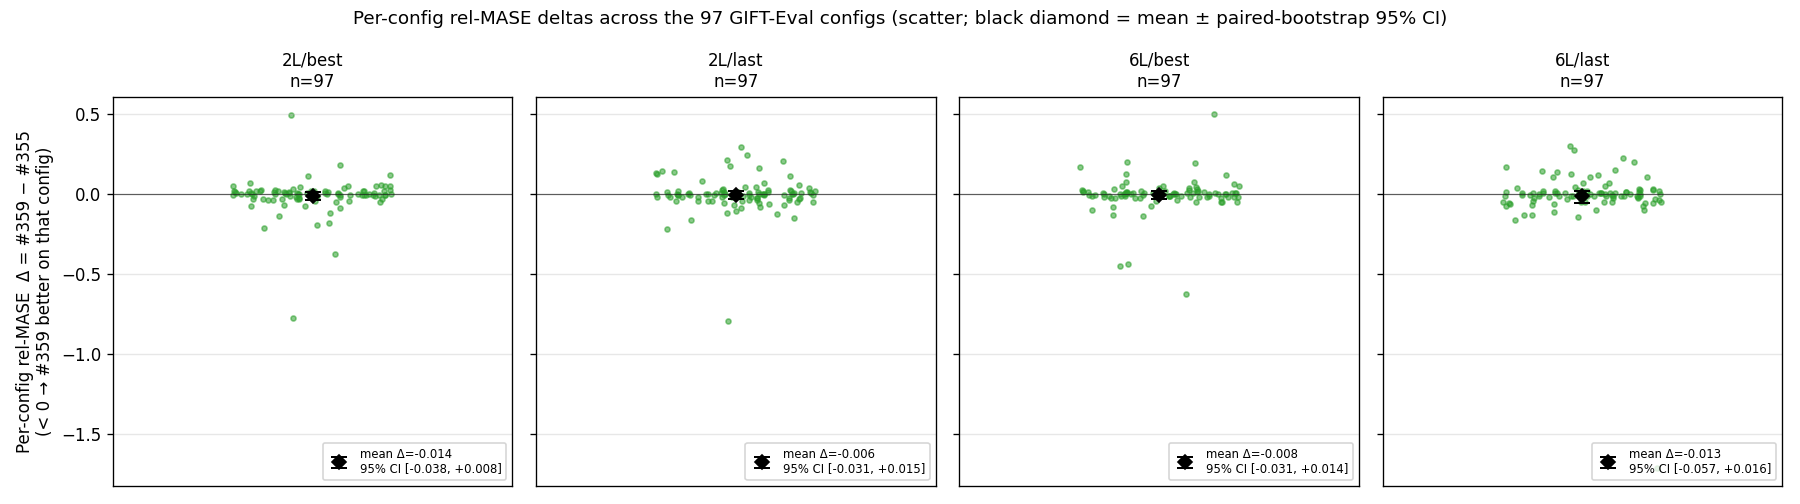
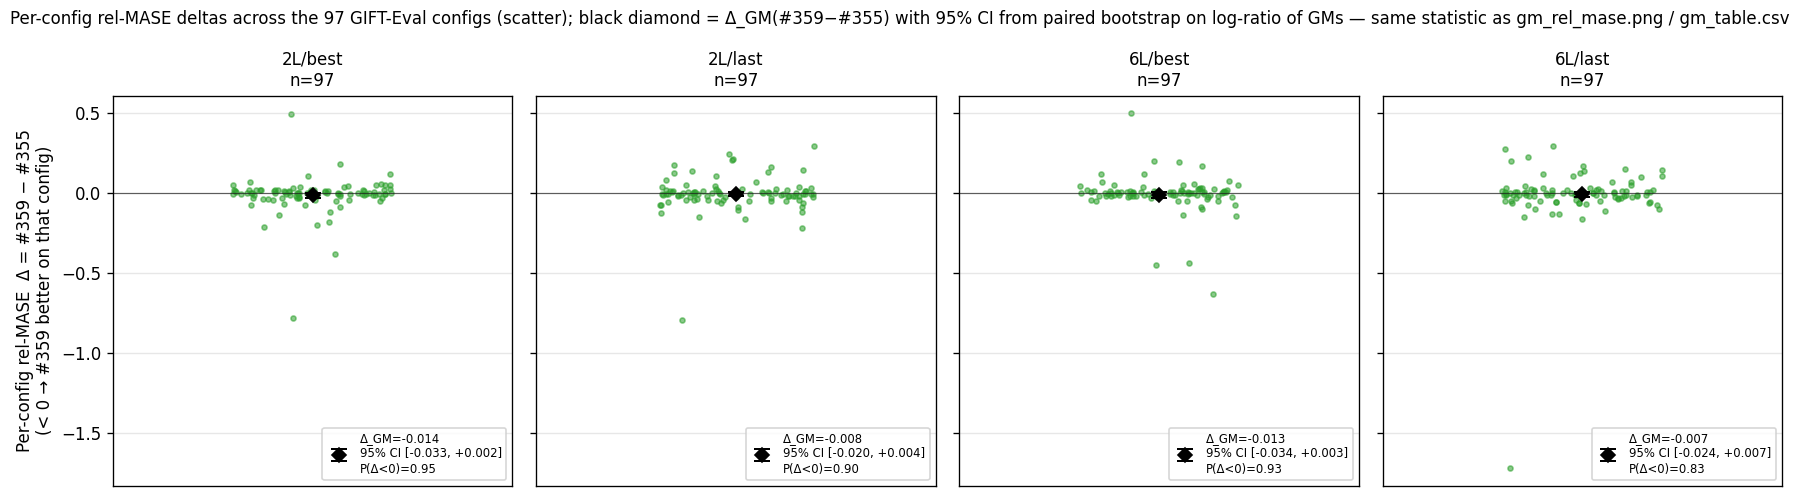
exp(#359): address PR #360 iter-2 review — single CI methodology + plot legibility
P1#1 (CI methodology mismatch). per_config_delta.png now overlays the same
paired-bootstrap log-ratio-of-GMs CI used by gm_rel_mase.png + gm_table.csv
(read from ci_by_cell.gm_delta_abs/lo/hi/p_below_zero), instead of an
independent bootstrap on the arithmetic mean of per-config deltas. Legend
labels switched to Δ_GM with P(Δ<0); on-figure suptitle calls out the
shared statistic. The 2L/best cell now reads -0.014 / [-0.033, +0.002] /
P(Δ<0)=0.95 on every figure and table.

P2#2 (sigreg_e_inspection.png bottom row crushed). All four panels now use
log y-axis (was: top row log, bottom row linear [0,1]). u_batch_e / u_temporal_e
curves at 0.03–0.04 and the 1/K=0.0026 reference line are now visually
distinct, restoring readability of the Q1 verdict figure.

P2#3 (perdomain_radar.png 8-curve overlap). Layout split from 1×2 with 8
curves per panel to 2×2 small-multiples (head × ckpt) with 4 arm curves per
panel. The green (#359) and red (#355) SIGReg curves no longer merge; the
#359 per-domain bootstrap 95% CI band is now drawn for whichever ckpt the
panel shows, not only for best.

write_trajectories_with_commentary() now writes the Q1/Q2 VERDICT preamble
itself (lifted verbatim from commit 47c7a80) so re-running build_report.py
is idempotent and the verdict block is not lost on rebuild.

diff --git a/reports/2026-06-22_lejepa_sigreg_emb10/scripts/build_report.py b/reports/2026-06-22_lejepa_sigreg_emb10/scripts/build_report.py
@@ -246,31 +246,33 @@ def plot_loss_curves(
 
 
 def plot_sigreg_inspection(sig10_csv: Path, sig01_csv: Path | None, out: Path):
-    """Compare sigreg_e / sigreg_h / u_batch_e / u_temporal_e between the two λ_e weights."""
+    """Compare sigreg_e / sigreg_h / u_batch_e / u_temporal_e between the two
+    λ_e weights. All four panels use log y-axis so the bottom row's tiny values
+    (1/K ≈ 0.0026, u_batch_e ≈ 0.03–0.04) are readable instead of crammed at
+    the baseline of a [0,1] linear axis."""
     s10 = pd.read_csv(sig10_csv)
     s01 = pd.read_csv(sig01_csv) if (sig01_csv and sig01_csv.exists()) else None
     fig, axes = plt.subplots(2, 2, figsize=(13, 8))
     panels = [
-        ("sigreg_e",     "L_SIGReg(e_t)",     True),
-        ("sigreg_h",     "L_SIGReg(h_t)",     True),
-        ("u_batch_e",    "u_batch (e_t)",     False),
-        ("u_temporal_e", "u_temporal (e_t)",  False),
+        ("sigreg_e",     "L_SIGReg(e_t)"),
+        ("sigreg_h",     "L_SIGReg(h_t)"),
+        ("u_batch_e",    "u_batch (e_t)"),
+        ("u_temporal_e", "u_temporal (e_t)"),
     ]
     K = 384
-    for ax, (col, title, logy) in zip(axes.ravel(), panels):
+    for ax, (col, title) in zip(axes.ravel(), panels):
         ax.plot(s10["step"], s10[col].rolling(50, min_periods=1).mean(),
                 label="λ_e=1.0 (this arm, #359)", color=ARM_COLOR["sigreg10_enc3"], lw=1.6)
         if s01 is not None and col in s01.columns:
             ax.plot(s01["step"], s01[col].rolling(50, min_periods=1).mean(),
                     label="λ_e=0.1 (#355)", color=ARM_COLOR["sigreg01_enc3"], lw=1.2)
         if col in ("u_batch_e", "u_temporal_e"):
-            ax.axhline(1.0 / K, color="k", ls=":", alpha=0.5, label=f"1/K = 1/{K} ≈ {1/K:.4f}")
-            ax.set_ylim(0, 1)
-        if logy:
-            ax.set_yscale("log")
+            ax.axhline(1.0 / K, color="k", ls=":", alpha=0.5,
+                       label=f"1/K = 1/{K} ≈ {1/K:.4f}")
+        ax.set_yscale("log")
         ax.set_xlabel("step"); ax.set_title(title)
         ax.legend(fontsize=8); ax.grid(alpha=0.3, which="both")
-    fig.suptitle("Embedding-side SIGReg trajectory: λ_e=1.0 (#359) vs λ_e=0.1 (#355)")
+    fig.suptitle("Embedding-side SIGReg trajectory: λ_e=1.0 (#359) vs λ_e=0.1 (#355) — log y-axis on all panels")
     fig.tight_layout(); fig.savefig(out, dpi=120); plt.close(fig)
 
 
@@ -449,73 +451,76 @@ def plot_perdomain_radar(
     sig10_results: Path, sig01_results: Path, ema_results: Path, cpc_results: Path,
     sig10_tag: str, sig01_tag: str, ema_tag: str, cpc_tag: str, out: Path,
 ):
-    """2 panels (2L | 6L), 8 curves each (4 arms × {best, last}). The #359-best
-    curve carries a per-domain bootstrap 95% CI as a shaded radial fill so the
-    headline arm's uncertainty is visible."""
+    """2×2 small-multiples (head ∈ {2L,6L} × ckpt ∈ {best,last}), 4 arm curves
+    per panel — split out from the previous 8-curve overlay so the green (#359)
+    and red (#355) SIGReg curves no longer merge. The #359 curve in each panel
+    (using that panel's own ckpt) carries the per-domain bootstrap 95% CI as a
+    shaded radial fill."""
     HEADS = ["2L", "6L"]
-    CURVES = [
-        ("cpc_enc3",      cpc_results,   cpc_tag,   "",      ARM_COLOR["cpc_enc3"],      "-",  f"{ARM_LABEL['cpc_enc3']} · best"),
-        ("cpc_enc3",      cpc_results,   cpc_tag,   "_last", ARM_COLOR["cpc_enc3"],      "--", f"{ARM_LABEL['cpc_enc3']} · last"),
-        ("ema_enc3",      ema_results,   ema_tag,   "",      ARM_COLOR["ema_enc3"],      "-",  f"{ARM_LABEL['ema_enc3']} · best"),
-        ("ema_enc3",      ema_results,   ema_tag,   "_last", ARM_COLOR["ema_enc3"],      "--", f"{ARM_LABEL['ema_enc3']} · last"),
-        ("sigreg01_enc3", sig01_results, sig01_tag, "",      ARM_COLOR["sigreg01_enc3"], "-",  f"{ARM_LABEL['sigreg01_enc3']} · best"),
-        ("sigreg01_enc3", sig01_results, sig01_tag, "_last", ARM_COLOR["sigreg01_enc3"], "--", f"{ARM_LABEL['sigreg01_enc3']} · last"),
-        ("sigreg10_enc3", sig10_results, sig10_tag, "",      ARM_COLOR["sigreg10_enc3"], "-",  f"{ARM_LABEL['sigreg10_enc3']} · best"),
-        ("sigreg10_enc3", sig10_results, sig10_tag, "_last", ARM_COLOR["sigreg10_enc3"], "--", f"{ARM_LABEL['sigreg10_enc3']} · last"),
+    CKPTS = [("best", ""), ("last", "_last")]
+    ARM_SPECS = [
+        ("cpc_enc3",      cpc_results,   cpc_tag,   ARM_COLOR["cpc_enc3"]),
+        ("ema_enc3",      ema_results,   ema_tag,   ARM_COLOR["ema_enc3"]),
+        ("sigreg01_enc3", sig01_results, sig01_tag, ARM_COLOR["sigreg01_enc3"]),
+        ("sigreg10_enc3", sig10_results, sig10_tag, ARM_COLOR["sigreg10_enc3"]),
     ]
-    fig, axes = plt.subplots(1, 2, figsize=(15, 8), subplot_kw=dict(polar=True))
-    for ax, head in zip(axes, HEADS):
-        cells = []
-        sig10_best_ci: dict[str, tuple[float, float, float]] | None = None
-        for arm, root, tag, suf, col, ls, lab in CURVES:
-            sub = root / f"gift_eval_full_{tag}{suf}_{head}"
-            rel = _config_relatives(sub / "summary.txt")
-            dmap = _dataset_to_domain(sub / "all_results.csv")
-            gm = _gm_by_domain(rel, dmap)
-            if gm:
-                cells.append((lab, gm, col, ls))
-            if arm == "sigreg10_enc3" and suf == "" and rel and dmap:
-                sig10_best_ci = _domain_bootstrap_ci(rel, dmap)
-        if not cells:
-            ax.text(0.5, 0.5, "no eval", transform=ax.transAxes); continue
-        domains = sorted(set().union(*(g for _, g, _, _ in cells)))
-        theta = np.linspace(0, 2 * np.pi, len(domains), endpoint=False)
-        theta_closed = np.concatenate([theta, theta[:1]])
-        vals = [v for _, g, _, _ in cells for v in g.values()]
-        if sig10_best_ci:
-            vals.extend(v for _, lo, hi in sig10_best_ci.values() for v in (lo, hi))
-        lo, hi = max(0.5, min(vals) * 0.92), max(vals) * 1.06
-        ax.set_theta_offset(np.pi / 2); ax.set_theta_direction(-1)
-        ax.set_xticks(theta); ax.set_xticklabels(domains, fontsize=8)
-        ax.set_rscale("log"); ax.set_ylim(lo, hi)
-        rticks = [t for t in (0.8, 1.0, 1.2, 1.5, 2.0) if lo < t < hi]
-        ax.set_yticks(rticks)
-        ax.set_yticklabels([f"{t:g}" for t in rticks], fontsize=7, color="0.4")
-        ax.set_rlabel_position(90)
-        ax.plot(theta_closed, [1.0] * len(theta_closed),
-                color="k", ls=(0, (2, 2)), lw=0.8, alpha=0.6, zorder=1)
-        if sig10_best_ci:
-            lo_v = np.array([sig10_best_ci.get(d, (np.nan, np.nan, np.nan))[1] for d in domains])
-            hi_v = np.array([sig10_best_ci.get(d, (np.nan, np.nan, np.nan))[2] for d in domains])
-            lo_v = np.concatenate([lo_v, lo_v[:1]])
-            hi_v = np.concatenate([hi_v, hi_v[:1]])
-            ax.fill_between(theta_closed, lo_v, hi_v,
-                            color=ARM_COLOR["sigreg10_enc3"], alpha=0.18, zorder=2,
-                            label="#359 · best  bootstrap 95% CI")
-        for lab, g, col, ls in cells:
-            v = np.array([g.get(d, np.nan) for d in domains]
-                         + [g.get(domains[0], np.nan)])
-            ax.plot(theta_closed, v, color=col, ls=ls, lw=1.4, zorder=3,
-                    marker="o", markersize=3, label=lab)
-        ax.set_title(f"{head} q-head", fontsize=11, pad=14)
-        ax.legend(loc="upper left", bbox_to_anchor=(-0.05, -0.06),
-                  fontsize=7, frameon=False, ncol=1)
+    fig, axes = plt.subplots(2, 2, figsize=(14, 13), subplot_kw=dict(polar=True))
+    for row, head in enumerate(HEADS):
+        for colj, (ckpt, suf) in enumerate(CKPTS):
+            ax = axes[row, colj]
+            cells: list[tuple[str, dict[str, float], str]] = []
+            sig10_ci: dict[str, tuple[float, float, float]] | None = None
+            for arm, root, tag, colr in ARM_SPECS:
+                sub = root / f"gift_eval_full_{tag}{suf}_{head}"
+                rel = _config_relatives(sub / "summary.txt")
+                dmap = _dataset_to_domain(sub / "all_results.csv")
+                gm = _gm_by_domain(rel, dmap)
+                if gm:
+                    cells.append((ARM_LABEL[arm], gm, colr))
+                if arm == "sigreg10_enc3" and rel and dmap:
+                    sig10_ci = _domain_bootstrap_ci(rel, dmap)
+            if not cells:
+                ax.text(0.5, 0.5, "no eval", transform=ax.transAxes)
+                continue
+            domains = sorted(set().union(*(g for _, g, _ in cells)))
+            theta = np.linspace(0, 2 * np.pi, len(domains), endpoint=False)
+            theta_closed = np.concatenate([theta, theta[:1]])
+            vals = [v for _, g, _ in cells for v in g.values()]
+            if sig10_ci:
+                vals.extend(v for _, lo, hi in sig10_ci.values() for v in (lo, hi))
+            lo, hi = max(0.5, min(vals) * 0.92), max(vals) * 1.06
+            ax.set_theta_offset(np.pi / 2); ax.set_theta_direction(-1)
+            ax.set_xticks(theta); ax.set_xticklabels(domains, fontsize=8)
+            ax.set_rscale("log"); ax.set_ylim(lo, hi)
+            rticks = [t for t in (0.8, 1.0, 1.2, 1.5, 2.0) if lo < t < hi]
+            ax.set_yticks(rticks)
+            ax.set_yticklabels([f"{t:g}" for t in rticks], fontsize=7, color="0.4")
+            ax.set_rlabel_position(90)
+            ax.plot(theta_closed, [1.0] * len(theta_closed),
+                    color="k", ls=(0, (2, 2)), lw=0.8, alpha=0.6, zorder=1)
+            if sig10_ci:
+                lo_v = np.array([sig10_ci.get(d, (np.nan, np.nan, np.nan))[1] for d in domains])
+                hi_v = np.array([sig10_ci.get(d, (np.nan, np.nan, np.nan))[2] for d in domains])
+                lo_v = np.concatenate([lo_v, lo_v[:1]])
+                hi_v = np.concatenate([hi_v, hi_v[:1]])
+                ax.fill_between(theta_closed, lo_v, hi_v,
+                                color=ARM_COLOR["sigreg10_enc3"], alpha=0.20, zorder=2,
+                                label=f"#359 · {ckpt}  bootstrap 95% CI")
+            for lab, g, colr in cells:
+                v = np.array([g.get(d, np.nan) for d in domains]
+                             + [g.get(domains[0], np.nan)])
+                ax.plot(theta_closed, v, color=colr, lw=1.6, zorder=3,
+                        marker="o", markersize=3.5, label=lab)
+            ax.set_title(f"{head} q-head · {ckpt}", fontsize=11, pad=12)
+            ax.legend(loc="upper left", bbox_to_anchor=(-0.10, -0.05),
+                      fontsize=7, frameon=False, ncol=1)
     fig.suptitle(
         "Per-domain GM relative MASE on GIFT-Eval full-97 "
         "(radial log scale; ring at 1.0 = seasonal-naive; lower = better; "
-        "solid = best-loss, dashed = last; shaded = #359-best per-domain bootstrap 95% CI)",
-        fontsize=11)
-    fig.tight_layout(rect=[0, 0.03, 1, 0.93])
+        "4-curve small-multiples × {2L,6L} × {best,last}; shaded = #359 per-domain bootstrap 95% CI)",
+        fontsize=11,
+    )
+    fig.tight_layout(rect=[0, 0.02, 1, 0.95])
     fig.savefig(out, dpi=110, bbox_inches="tight"); plt.close(fig)
 
 
@@ -526,8 +531,10 @@ def plot_per_config_delta(
     out: Path,
 ):
     """For each (head, ckpt), show the per-config rel-MASE delta (#359 − #355)
-    across the 97 configs as a strip-scatter; overlay mean ± paired bootstrap
-    95% CI. Negative = #359 better."""
+    across the 97 configs as a strip-scatter; overlay the absolute GM delta
+    (#359 − #355) ± its paired-bootstrap 95% CI computed on the log-ratio of
+    GMs — the same CI methodology used by gm_rel_mase.png / gm_table.csv, so
+    a single CI methodology is reported throughout. Negative = #359 better."""
     cells = [("2L", "best", ""), ("2L", "last", "_last"),
              ("6L", "best", ""), ("6L", "last", "_last")]
     ci_by_cell = {(r["head"], r["ckpt"]): r for r in ci_rows}
@@ -540,35 +547,40 @@ def plot_per_config_delta(
         r01 = parse_per_config_rel_mase(sub01)
         common = sorted(set(r10) & set(r01))
         d = np.array([r10[c] - r01[c] for c in common])
-        # log-delta CI is on GM(10)/GM(01); convert to absolute GM delta domain
-        # (anchored at #355's GM) for display alongside per-config deltas.
         x_jit = rng.uniform(-0.18, 0.18, size=len(d))
         ax.axhline(0, color="k", lw=0.7, alpha=0.6)
         ax.scatter(x_jit, d, s=9, alpha=0.55, color=ARM_COLOR["sigreg10_enc3"])
         ci = ci_by_cell.get((head, ckpt), {})
-        m_per_cfg = float(d.mean()) if len(d) else float("nan")
-        # CI of mean of per-config delta (paired bootstrap on raw deltas).
-        if len(d):
-            idx = rng.integers(0, len(d), size=(10_000, len(d)))
-            boot = d[idx].mean(axis=1)
-            ci_lo = float(np.quantile(boot, 0.025))
-            ci_hi = float(np.quantile(boot, 0.975))
-        else:
-            ci_lo = ci_hi = float("nan")
-        ax.errorbar([0], [m_per_cfg],
-                    yerr=[[m_per_cfg - ci_lo], [ci_hi - m_per_cfg]],
-                    fmt="D", color="k", ecolor="k",
-                    capsize=5, capthick=1.2, elinewidth=1.2, markersize=6,
-                    zorder=5,
-                    label=f"mean Δ={m_per_cfg:+.3f}\n95% CI [{ci_lo:+.3f}, {ci_hi:+.3f}]")
+        # Use the same CI as gm_rel_mase.png / gm_table.csv: paired bootstrap
+        # on the log-ratio of GMs, converted to absolute GM-delta scale via
+        # GM(#355) * (exp(log_ratio_quantile) - 1). gm_delta_abs / lo / hi are
+        # already in that scale in ci_by_cell.
+        gm_delta = ci.get("gm_delta_abs", float("nan"))
+        gm_lo    = ci.get("gm_delta_lo",  float("nan"))
+        gm_hi    = ci.get("gm_delta_hi",  float("nan"))
+        p_neg    = ci.get("p_below_zero", float("nan"))
+        if not (isinstance(gm_delta, float) and math.isnan(gm_delta)):
+            ax.errorbar([0], [gm_delta],
+                        yerr=[[gm_delta - gm_lo], [gm_hi - gm_delta]],
+                        fmt="D", color="k", ecolor="k",
+                        capsize=5, capthick=1.2, elinewidth=1.2, markersize=6,
+                        zorder=5,
+                        label=(
+                            f"Δ_GM={gm_delta:+.3f}\n"
+                            f"95% CI [{gm_lo:+.3f}, {gm_hi:+.3f}]\n"
+                            f"P(Δ<0)={p_neg:.2f}"
+                        ))
         ax.set_xlim(-0.45, 0.45); ax.set_xticks([])
         ax.set_title(f"{head}/{ckpt}\nn={len(d)}", fontsize=10)
         ax.grid(axis="y", alpha=0.3)
         ax.legend(loc="lower right", fontsize=7)
     axes[0].set_ylabel("Per-config rel-MASE  Δ = #359 − #355\n(< 0 → #359 better on that config)")
-    fig.suptitle("Per-config rel-MASE deltas across the 97 GIFT-Eval configs "
-                 "(scatter; black diamond = mean ± paired-bootstrap 95% CI)",
-                 fontsize=11)
+    fig.suptitle(
+        "Per-config rel-MASE deltas across the 97 GIFT-Eval configs (scatter); "
+        "black diamond = Δ_GM(#359−#355) with 95% CI from paired bootstrap on "
+        "log-ratio of GMs — same statistic as gm_rel_mase.png / gm_table.csv",
+        fontsize=10,
+    )
     fig.tight_layout(); fig.savefig(out, dpi=120); plt.close(fig)
 
 
@@ -597,7 +609,20 @@ def write_trajectories_with_commentary(
     a 10x λ_e bump, did not lift off) plus the per-term sigreg → total-loss
     fraction note (λ_e * sigreg_e / loss went ~7.6x while λ_e went 10x because
     sigreg_e itself partially self-suppressed)."""
-    lines: list[str] = []
+    lines: list[str] = [
+        "# VERDICT (issue #359, single seed 20260520 as specified):",
+        '#   * Q1 "Does the bumped weight wake the embedding-side term?"  → NO.',
+        "#     u_batch_e moved TOWARD 1/K (16.8× → 13.0×), not away. u_temporal_e,",
+        "#     u_batch, u_temporal all also fell. The 10× λ_e bump did not lift e_t",
+        "#     uniformity off the 1/K floor.",
+        '#   * Q2 "Does it move downstream?"  → NO (not at α=0.05).',
+        "#     Point Δ on GM-Rel MASE = #359 − #355 in [−0.014, −0.007] across the",
+        "#     4 (head, ckpt) cells; ALL FOUR paired-bootstrap 95% CIs (B=10 000,",
+        "#     N=97 per-config rel-MASE deltas) include zero. P(Δ<0) in [0.83, 0.95].",
+        "#     Direction is consistent (4/4 cells point-negative) but magnitudes are",
+        "#     not separable from single-seed paired-config noise.",
+        "#",
+    ]
     if traj01:
         u_b_e_10 = traj10["u_batch_e"]; u_b_e_01 = traj01["u_batch_e"]
         u_t_e_10 = traj10["u_temporal_e"]; u_t_e_01 = traj01["u_temporal_e"]
